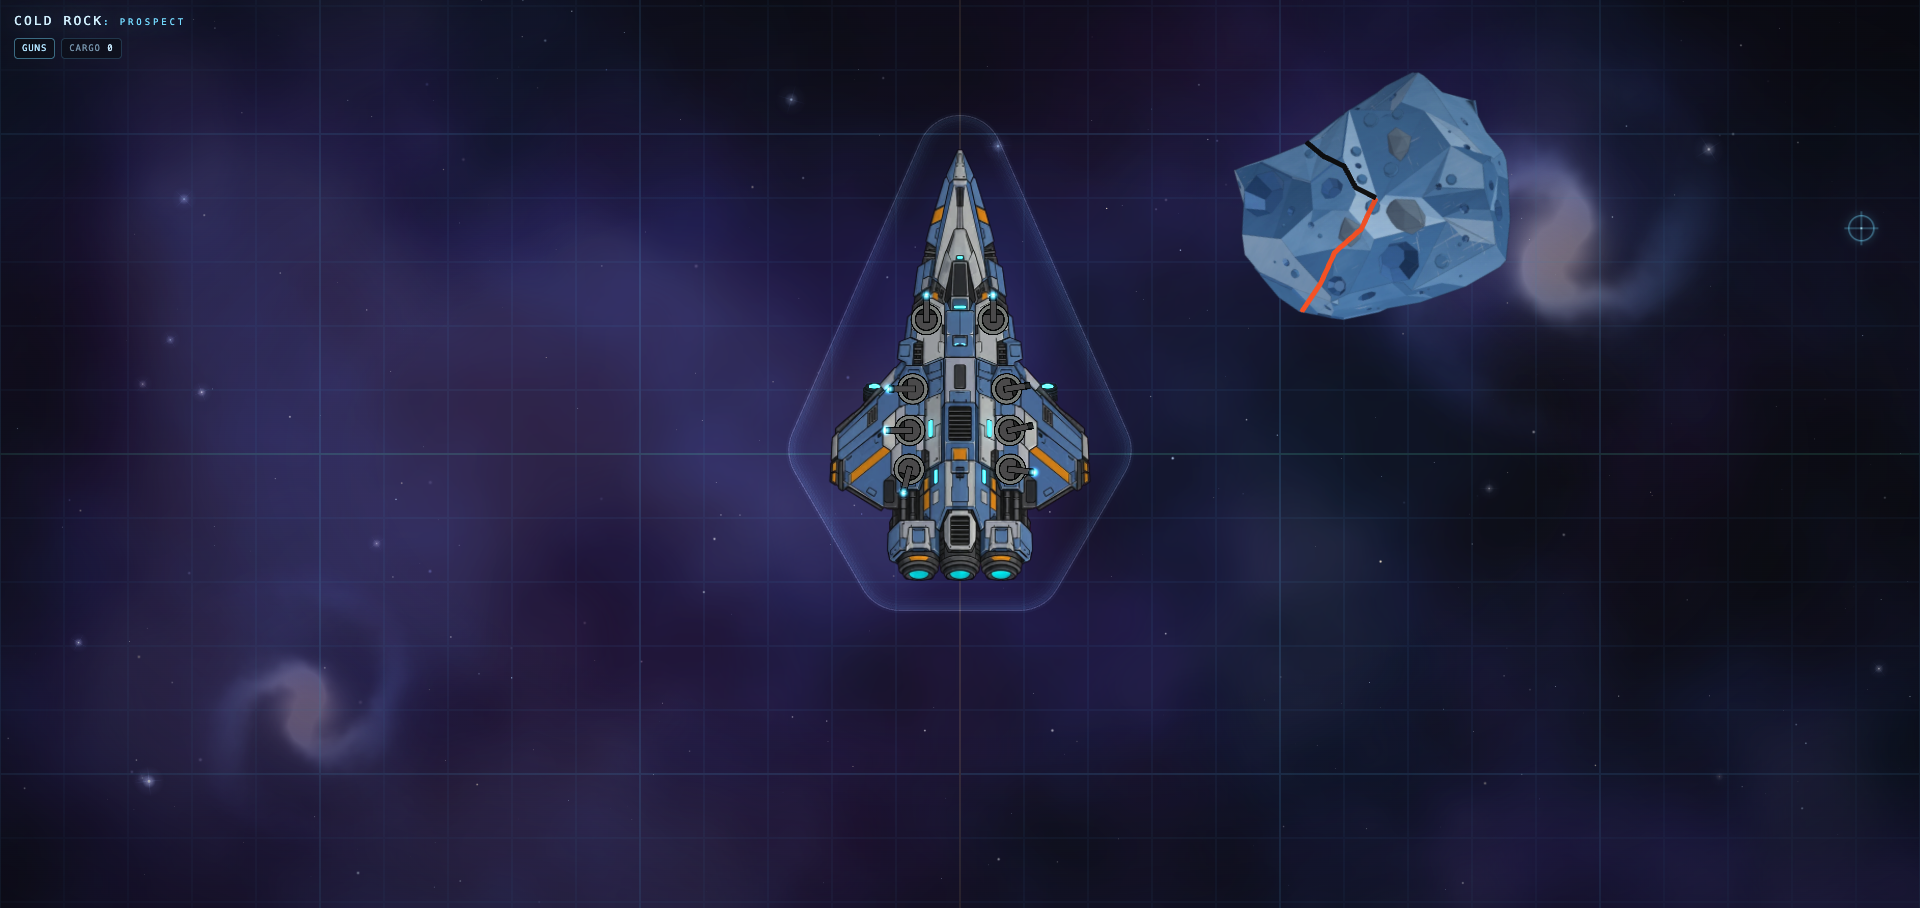
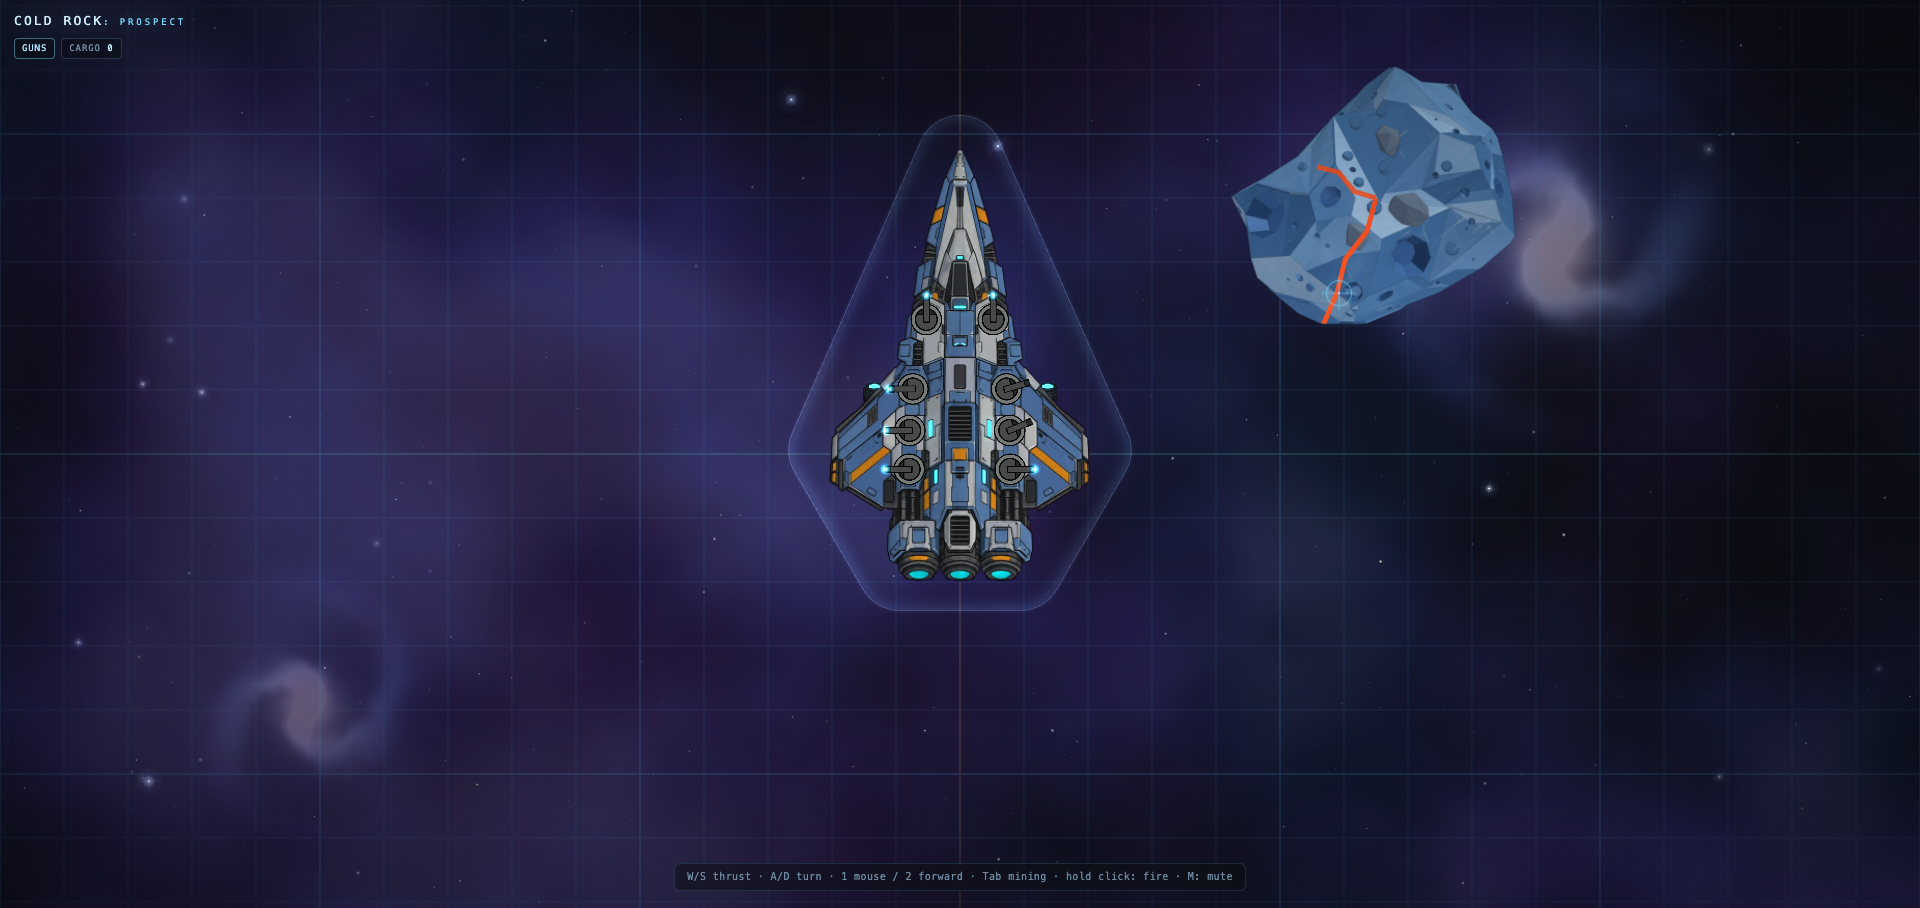
fix: keep the first crack as the only hitbox

Changed region(s): [[0.625, 0.0617, 0.7812, 0.37], [0.4375, 0.9559, 0.625, 0.9868]]

diff --git a/src/app/fracture-rock.ts b/src/app/fracture-rock.ts
@@ -192,11 +192,7 @@ export function createFractureRock(field: AsteroidField, options: FractureOption
   let lastFrame: FractureFrame | null = null;
 
   const crackSampleWorld = (): { x: number; y: number } => {
-    const branch = hitCount < SIDE_ONE_HITS ? firstCrack : secondCrack;
-    const sample =
-      hitCount < SIDE_ONE_HITS
-        ? (branch[1] ?? branch[0] ?? { x: 0, y: 0 })
-        : (branch[Math.max(1, branch.length - 2)] ?? branch[0] ?? { x: 0, y: 0 });
+    const sample = firstCrack[1] ?? firstCrack[0] ?? { x: 0, y: 0 };
     const local = rotate(sample, shellCollider.rotation);
     return { x: shellCollider.x + local.x, y: shellCollider.y + local.y };
   };
@@ -339,11 +335,10 @@ export function createFractureRock(field: AsteroidField, options: FractureOption
       const rotated = rotate(point, shellCollider.rotation);
       return screenPoint(shellCollider.x + rotated.x, shellCollider.y + rotated.y, frame);
     };
-    const drawBranch = (branch: readonly Vec2[], color: number, alpha: number): void => {
-      if (branch.length < 2) return;
-      const path = branch.map(toScreen);
-      crack.moveTo(path[0]!.x, path[0]!.y);
-      for (const point of path.slice(1)) crack.lineTo(point.x, point.y);
+    const drawPath = (points: readonly Vec2[], color: number, alpha: number): void => {
+      if (points.length < 2) return;
+      crack.moveTo(points[0]!.x, points[0]!.y);
+      for (const point of points.slice(1)) crack.lineTo(point.x, point.y);
       crack.stroke({ color, width: 5, alpha });
     };
     const mix = (from: number, to: number, progress: number): number => {
@@ -360,18 +355,50 @@ export function createFractureRock(field: AsteroidField, options: FractureOption
         Math.round(fb + (tb - fb) * t)
       );
     };
-    const black = 0x070504;
-    const orange = 0xff5a24;
-    const sideOne = Math.min(1, hitCount / SIDE_ONE_HITS);
-    // First crack: black -> orange. Once it is fully orange the second crack
-    // appears black and then follows the same colour ramp.
-    drawBranch(firstCrack, mix(black, orange, sideOne), 0.95);
+    // The hitbox stays on the first crack for every shot. It turns orange over
+    // the first two hits. The second crack then grows out from the centre to
+    // the edge over the remaining three hits.
+    const firstProgress = Math.min(1, hitCount / SIDE_ONE_HITS);
+    const firstScreen = firstCrack.map(toScreen);
+    drawPath(firstScreen, mix(0x070504, 0xff5a24, firstProgress), 0.95);
+
     if (hitCount >= SIDE_ONE_HITS) {
-      const sideTwo = Math.min(
-        1,
-        (hitCount - SIDE_ONE_HITS) / (SHELL_HITS_TO_BREAK - SIDE_ONE_HITS),
-      );
-      drawBranch(secondCrack, mix(black, orange, sideTwo), 0.95);
+      const secondProgress =
+        (hitCount - SIDE_ONE_HITS + 1) / (SHELL_HITS_TO_BREAK - SIDE_ONE_HITS + 1);
+      const secondScreen = secondCrack.map(toScreen);
+      // Draw only the centre-to-edge prefix that has grown so far.
+      let total = 0;
+      for (let index = 1; index < secondCrack.length; index += 1) {
+        total += Math.hypot(
+          secondCrack[index]!.x - secondCrack[index - 1]!.x,
+          secondCrack[index]!.y - secondCrack[index - 1]!.y,
+        );
+      }
+      const target = total * Math.min(1, secondProgress);
+      let drawn = 0;
+      const partial: { x: number; y: number }[] = [];
+      for (let index = 0; index < secondScreen.length; index += 1) {
+        if (index > 0) {
+          const length = Math.hypot(
+            secondCrack[index]!.x - secondCrack[index - 1]!.x,
+            secondCrack[index]!.y - secondCrack[index - 1]!.y,
+          );
+          if (drawn + length <= target) {
+            drawn += length;
+          } else {
+            const remain = target - drawn;
+            if (remain > 0) {
+              const t = remain / (length || 1);
+              const a = secondScreen[index - 1]!;
+              const b = secondScreen[index]!;
+              partial.push({ x: a.x + (b.x - a.x) * t, y: a.y + (b.y - a.y) * t });
+            }
+            break;
+          }
+        }
+        partial.push(secondScreen[index]!);
+      }
+      drawPath(partial, 0xff5a24, 0.55 + 0.4 * secondProgress);
     }
   };
 
@@ -429,8 +456,7 @@ export function createFractureRock(field: AsteroidField, options: FractureOption
         { x: x - shellCollider.x, y: y - shellCollider.y },
         -shellCollider.rotation,
       );
-      const targetCrack = hitCount < SIDE_ONE_HITS ? firstCrack : secondCrack;
-      if (distanceToPolyline(local, targetCrack) > CRACK_HIT_RADIUS_M) return;
+      if (distanceToPolyline(local, firstCrack) > CRACK_HIT_RADIUS_M) return;
       hitCount += 1;
       if (hitCount >= SHELL_HITS_TO_BREAK) breakShell();
     },

diff --git a/docs/GAMEPLAY.md b/docs/GAMEPLAY.md
@@ -82,10 +82,11 @@ straight ahead while the gun battery stays on pointer tracking (and vice versa).
 
 **Crackable test rock (prototype).** One authored rock sits ahead-right of the spawn. It starts
 with a **single black jagged crack** clipped to the exact rock silhouette; that black line is the
-shooting hitbox. Two hits turn that first crack **black → orange**. At that point a **second
-black crack** appears; the remaining three hits progress it from black to orange. When both
-cracks are fully orange on the fifth hit, the rock splits along the same **jagged polyline** into
-a **small cracked-out piece** and a **larger >180° piece**. Both are baked from the original art, have their own polygon
+shooting hitbox — **all five hits go into that first crack only**. Two hits turn it **black →
+orange**. A **second crack** then emerges from the centre and grows outward toward the edge over
+the remaining three hits, starting with little/no colour and ending orange. When both cracks are
+fully orange on the fifth hit, the rock splits along the same **jagged polyline** into a **small
+cracked-out piece** and a **larger >180° piece**. Both are baked from the original art, have their own polygon
 colliders, drift only a short distance apart with an **immediate gap** and **persist** — no
 physics engine. The
 **molten core sits beneath the shell at the break seam**, exposed through that gap rather than

diff --git a/AGENTS.md b/AGENTS.md
@@ -173,9 +173,10 @@ behaviour, also run `pnpm browser:inspect` and check the screenshot.
 - `src/app/fracture-model.ts` — pure fracture planning: monotonic-chain convex hull, triangle
   region helpers, a wedge cut and a true two-piece polyline cut; unit-tested.
 - `src/app/fracture-rock.ts` — one authored destructible test rock: an **initial single black
-  crack** clipped to the live collider silhouette, which is also the shooting hitbox. Two hits
-  turn that first crack black → orange, then a second black crack appears and takes the remaining
-  three hits to orange; at five the shell breaks. The visible crack path
+  crack** clipped to the live collider silhouette. That first crack is the **only hitbox for all
+  five hits**. Two hits turn it black → orange; a second crack then grows out from the centre
+  toward the edge over the remaining three hits, orange from the start. Both are orange at five,
+  then the shell breaks. The visible crack path
   is the same jagged polyline used to cut both fragments: the shell splits into a small
   cracked-out piece plus a larger >180° piece with baked polygon-clipped textures, separate
   colliders and shallow drift/rotation bodies.
